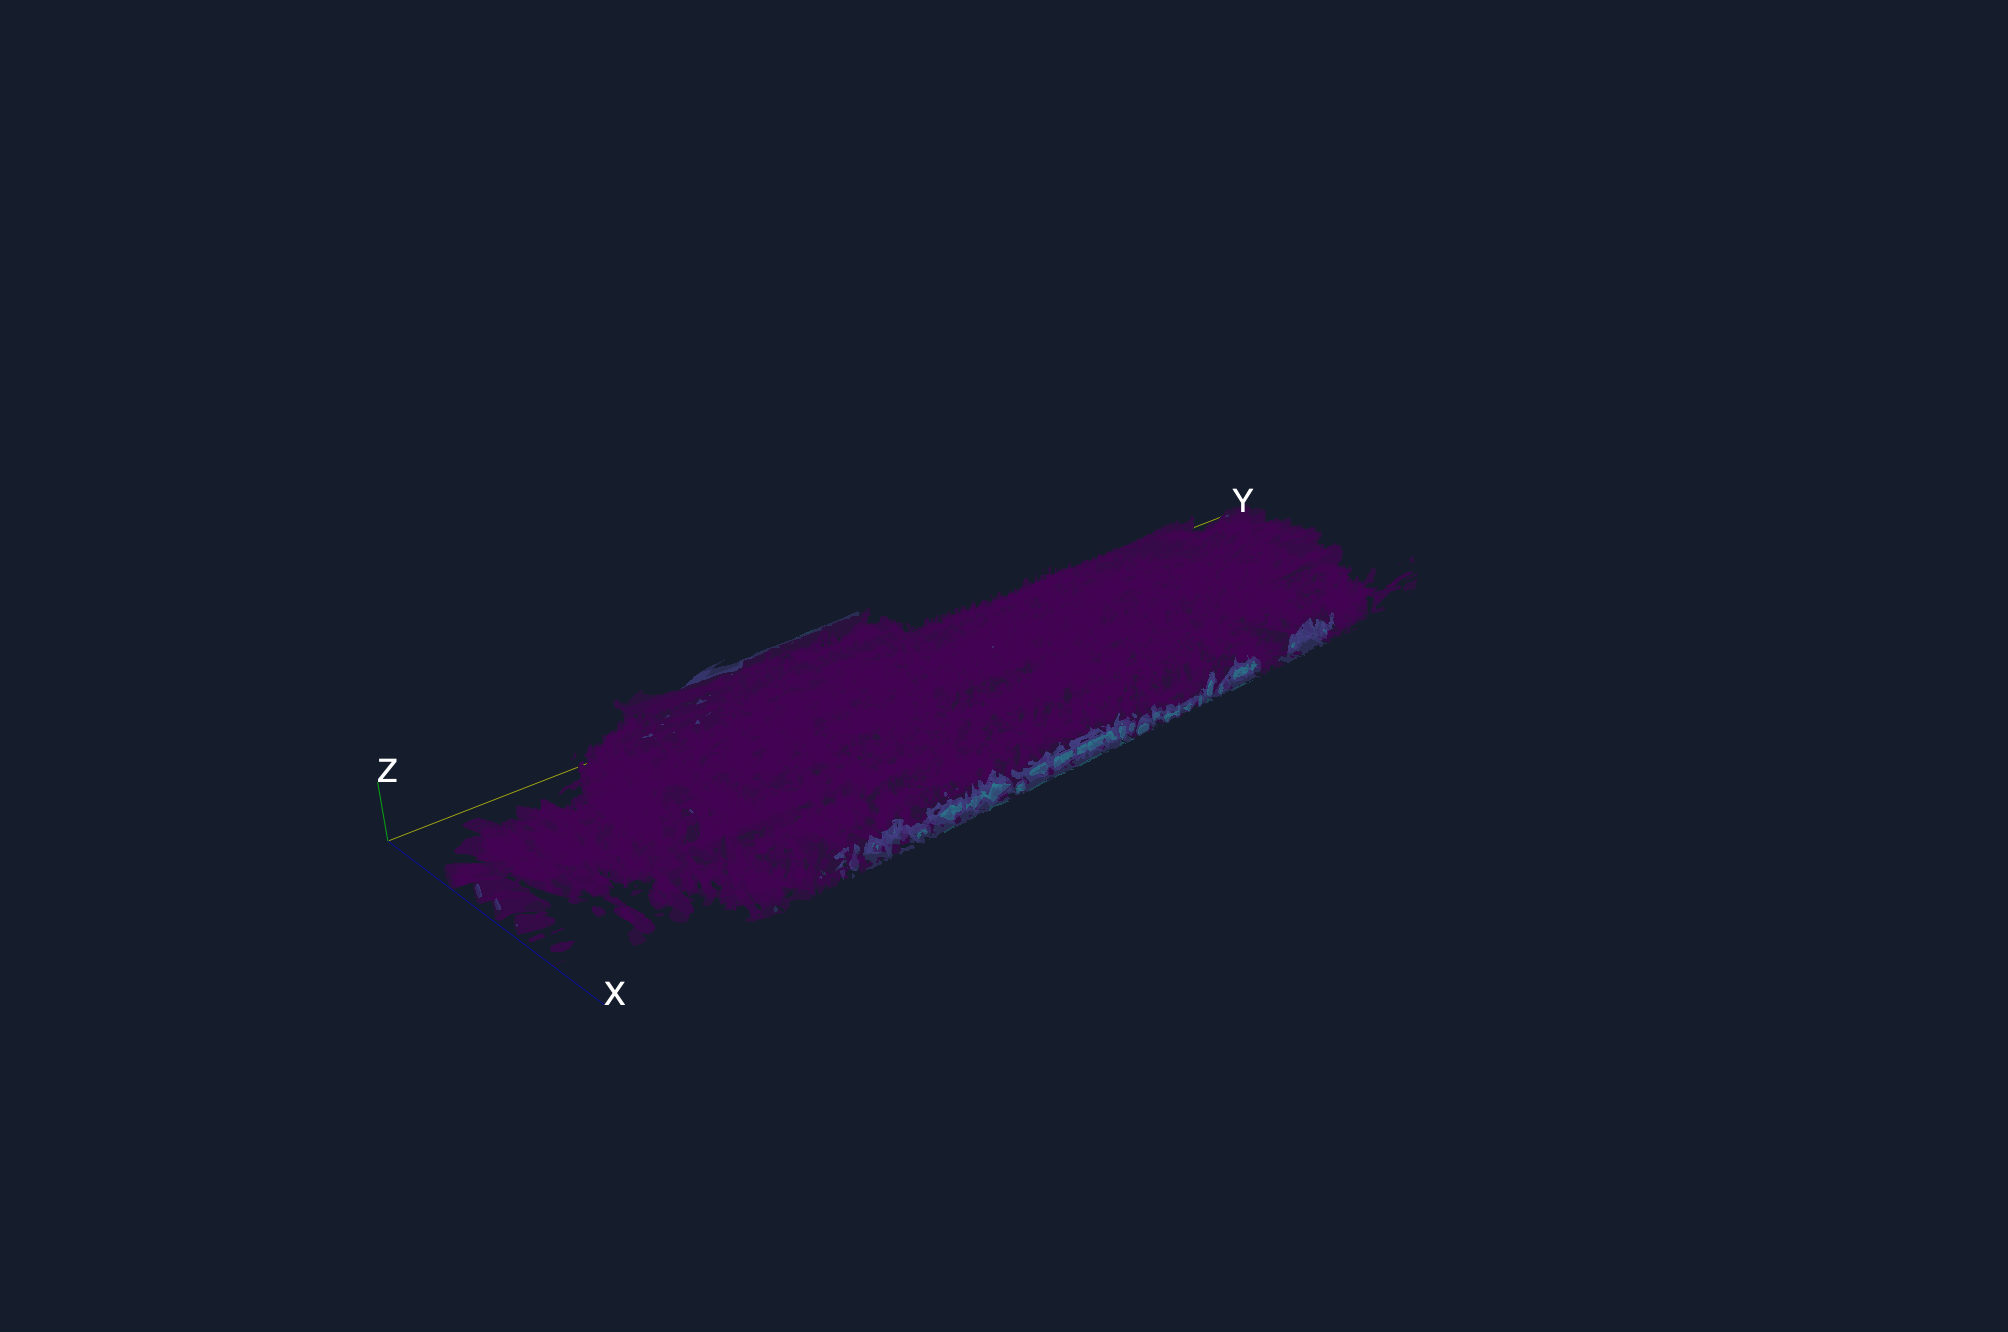
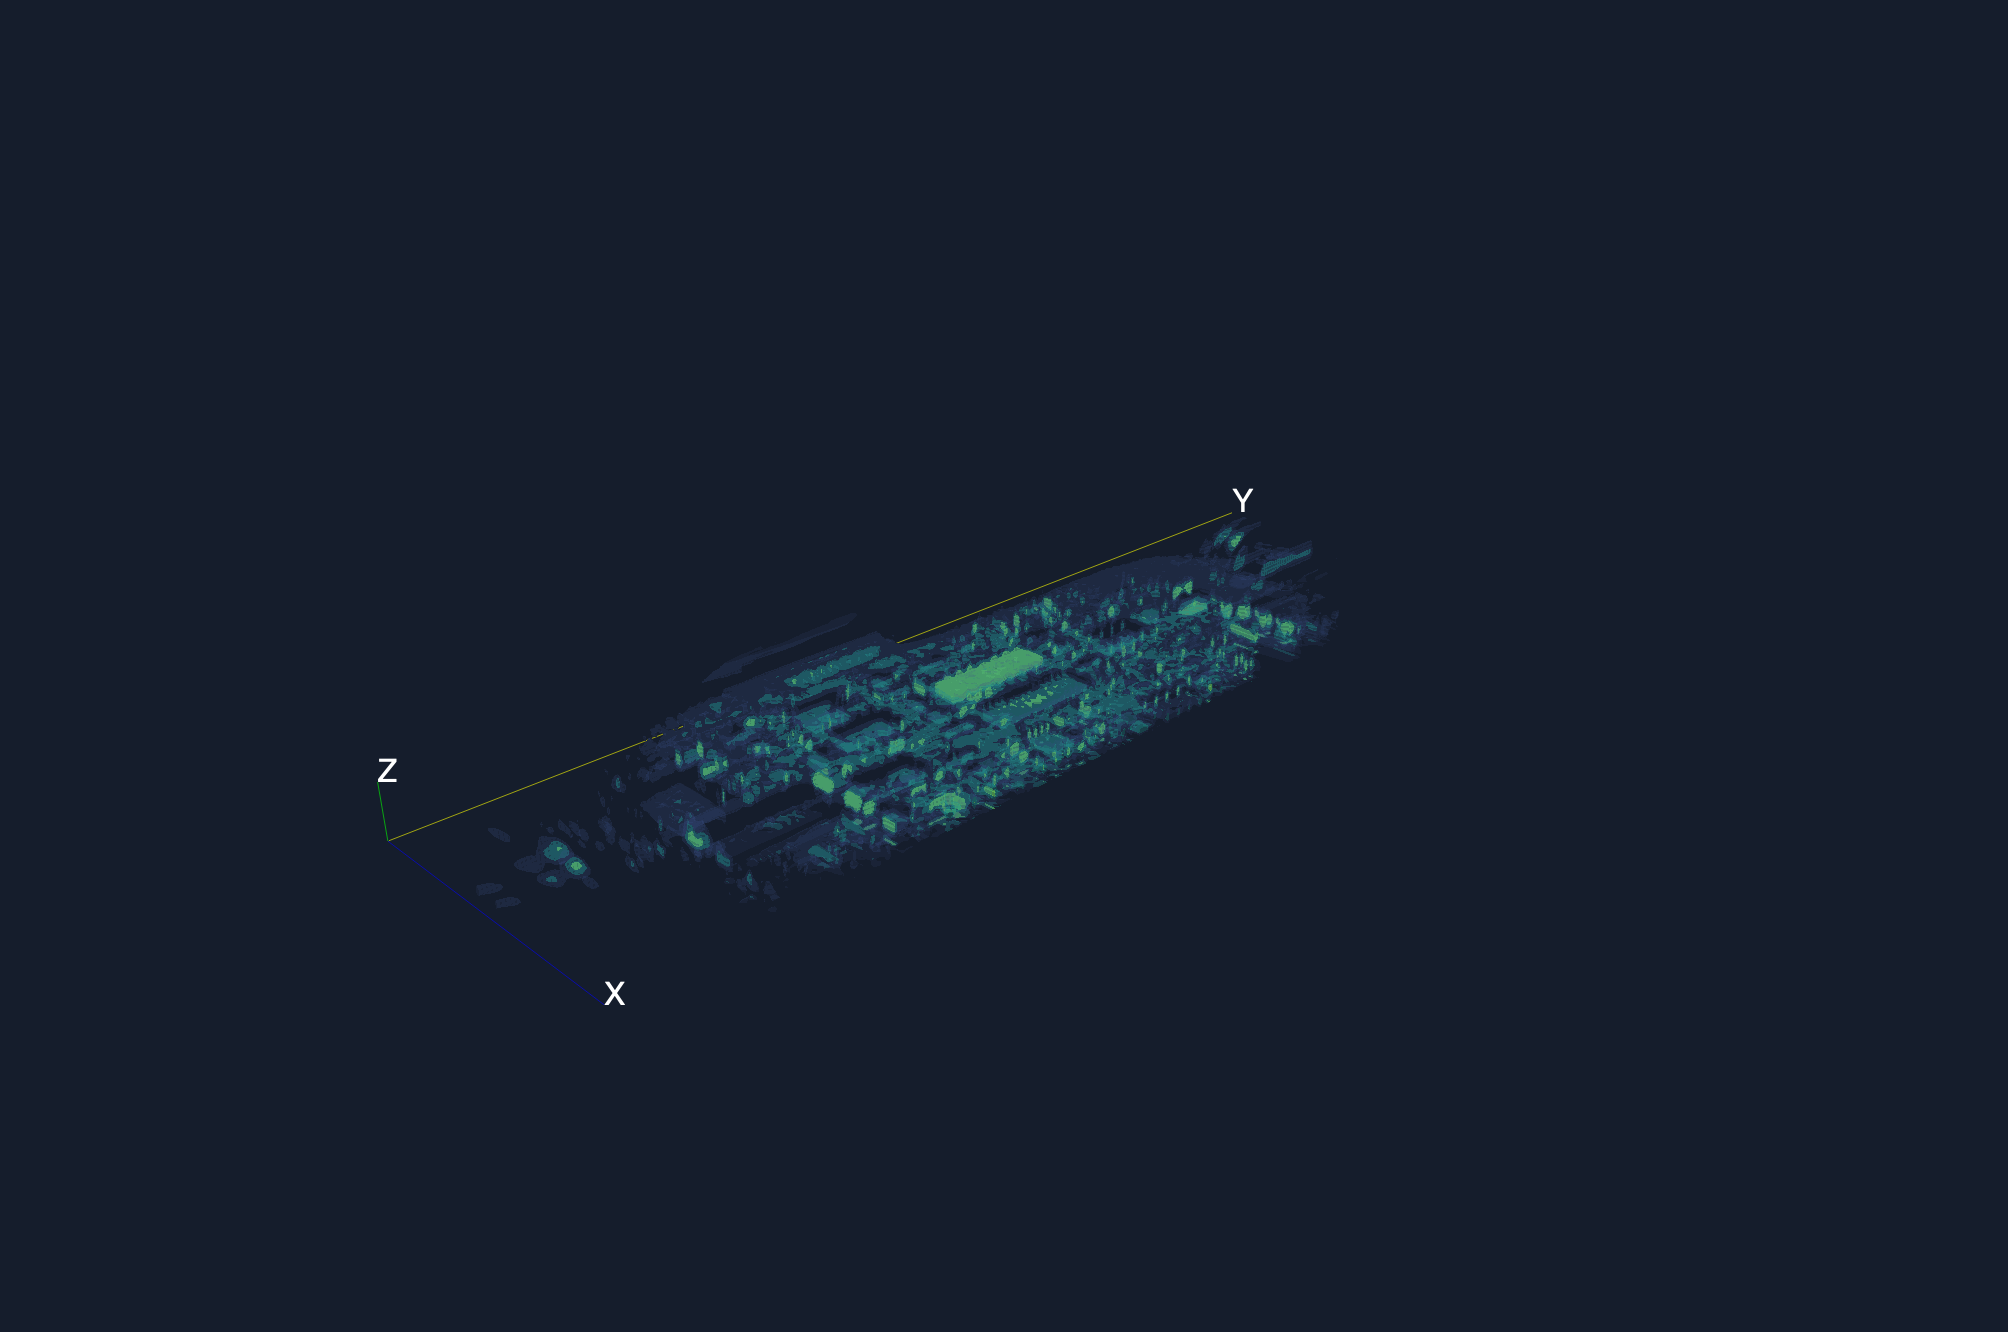
Rebuild arm64 app and refresh native volume and isosurface screenshots

Changed region(s): [[0.2161, 0.3694, 0.7102, 0.708]]

diff --git a/README.md b/README.md
@@ -75,7 +75,10 @@ Both amplitude and phase must be present with compatible dimensions.
 - Amplitude and phase waveforms at the selected pixel.
 - Calibrated 2D scale bar when a positive pixel size is entered.
 - Downsampled amplitude Volume and three uncapped Isosurface meshes; adjustable
-  lower percentile, fixed 99.5th-percentile upper threshold and camera reset.
+  lower percentile (default 90), fixed 99.5th-percentile upper threshold and camera reset.
+  Outer-to-inner mesh opacity is 0.12, 0.30 and 0.60. Volume clips its sampled
+  values to the 1st–99.5th percentile range before normalization and uses a
+  quadratic opacity transfer function. Isosurface controls are hidden in Volume mode.
 - Raw selected-channel CSV, colored pixel PNG/JPEG/TIFF and publication PNG
   with axes/colorbar. PNG/TIFF and publication PNG carry 300 DPI.
 - Thread-pool loading, slice/histogram preparation, backend processing, 3D
